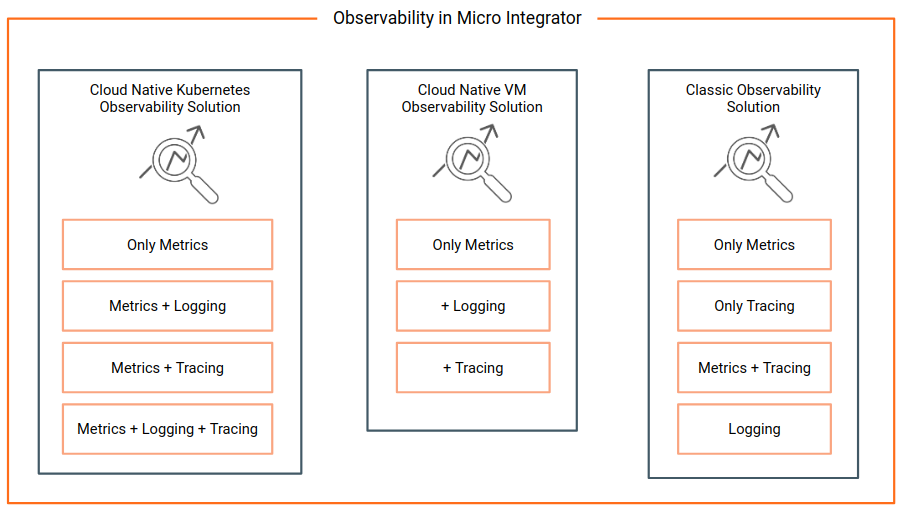
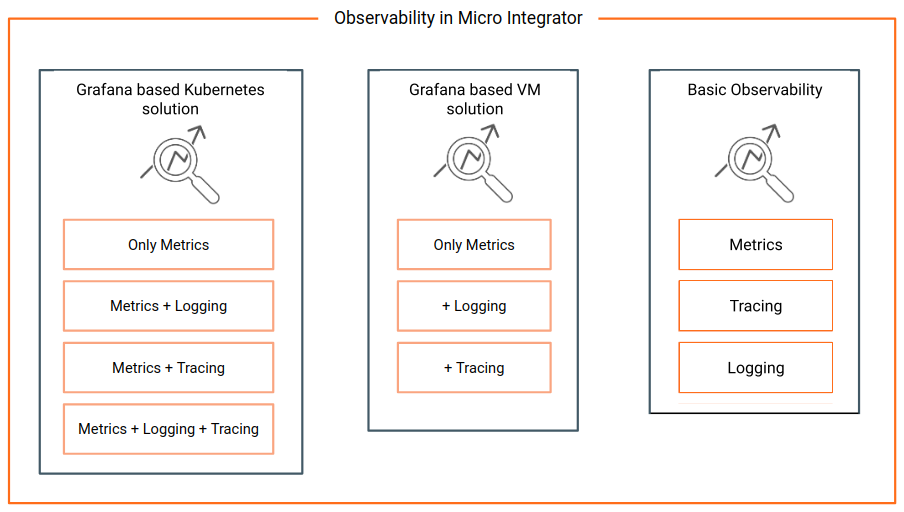
Restructure Observability docs

diff --git a/en/docs/observe-and-manage/cloud-native-observability-overview.md b/en/docs/observe-and-manage/cloud-native-observability-overview.md
@@ -1,16 +1,16 @@
 # Micro Integrator Observability Overview
 
-The following diagram depicts the complete **cloud native** observability solution for your Micro Integrator deployment, which includes **metrics monitoring**, **log monitoring**, and **message tracing** capabilities.
+The following diagram depicts the complete **Grafana** based observability solution for your Micro Integrator deployment, which includes **metrics monitoring**, **log monitoring**, and **message tracing** capabilities.
 
 [![Cloud Native Deployment Architecture]({{base_path}}/assets/img/integrate/monitoring-dashboard/cloud-native-deployment-architecture.png)]({{base_path}}/assets/img/integrate/monitoring-dashboard/cloud-native-deployment-architecture.png)
 
-## Minimum cloud native observability
+## Minimum Grafana based observability
 
 The basic deployment offers you metrics capabilities. You can set up the basic deployment with only Prometheus and Grafana to view and explore with the available Prometheus metrics.
 
-[![Cloud Native Deployment - Minimum]({{base_path}}/assets/img/integrate/monitoring-dashboard/cloud-native-observability-metrics.png)]({{base_path}}/assets/img/integrate/monitoring-dashboard/cloud-native-observability-metrics.png)
+[![Grafana based Deployment - Minimum]({{base_path}}/assets/img/integrate/monitoring-dashboard/cloud-native-observability-metrics.png)]({{base_path}}/assets/img/integrate/monitoring-dashboard/cloud-native-observability-metrics.png)
 
-## Cloud native observability add ons
+## Grafana based observability add ons
 
 You can also set up different flavors of the observability solution depending on your requirement.
 
@@ -18,17 +18,17 @@ You can also set up different flavors of the observability solution depending on
  
 Once you set up the basic deployment, you can integrate log-processing capabilities. To use this, you need to install **Fluent-Bit** as the logging agent and **Grafana Loki** as the log aggregator.
 
-[![Cloud Native Deployment with Logs]({{base_path}}/assets/img/integrate/monitoring-dashboard/cloud-native-observability-logs.png)]({{base_path}}/assets/img/integrate/monitoring-dashboard/cloud-native-observability-logs.png)
+[![Grafana based Deployment with Logs]({{base_path}}/assets/img/integrate/monitoring-dashboard/cloud-native-observability-logs.png)]({{base_path}}/assets/img/integrate/monitoring-dashboard/cloud-native-observability-logs.png)
 
 ### Message tracing add on
 
 Once you set up the basic deployment, you can integrate message tracing capabilities. To use this you need to install **Jaeger**.  
 
-[![Cloud Native Deployment with Tracing]({{base_path}}/assets/img/integrate/monitoring-dashboard/cloud-native-observability-tracing.png)]({{base_path}}/assets/img/integrate/monitoring-dashboard/cloud-native-observability-tracing.png)
+[![Grafana based Deployment with Tracing]({{base_path}}/assets/img/integrate/monitoring-dashboard/cloud-native-observability-tracing.png)]({{base_path}}/assets/img/integrate/monitoring-dashboard/cloud-native-observability-tracing.png)
 
 ## Observability solutions
 
-There are two cloud native observability solutions for the Micro Integrator; The Kubernetes based deployment and the VM based deployment.
+There are two Grafana based observability solutions for the Micro Integrator; The Kubernetes based deployment and the VM based deployment.
 
 <a href="{{base_path}}/assets/img/integrate/observability/observability-mi.png"><img src="{{base_path}}/assets/img/integrate/observability/observability-mi.png" title="Observability Solution" width="50%" alt="Observability Solution"/></a>
 
@@ -41,7 +41,7 @@ These solutions are suitable for the following combination of operations.
         <th><b>Description</b></th>
     </tr>
     <tr>
-        <td>Kubernetes cloud native solution</td>
+        <td>Grafana based Kubernetes solution</td>
         <td>
             <ul>
                 <li>Metrics only</li>
@@ -52,12 +52,12 @@ These solutions are suitable for the following combination of operations.
         </td>
         <td>
         <ul>
-        <li>The default Kubernetes cloud native solution comes with metrics enabled.</li>
+        <li>The default Grafana based Kubernetes solution comes with metrics enabled.</li>
         <li> You can also configure logging and tracing in combination with this. 
         </li>
             <li>This solution is ideal in the following situations.
             <ul>
-                <li>If you want a complete cloud native solution for observability.</li>
+                <li>If you want a complete Grafana based solution for observability.</li>
                 <li>If you already have Prometheus, Grafana, and Jaeger as your in-house monitoring and observability tools.</li>
             </ul>
         </li>
@@ -68,7 +68,7 @@ These solutions are suitable for the following combination of operations.
         </td>
     </tr>
     <tr>
-        <td>VM cloud native deployment</td>
+        <td>Grafana based VM deployment</td>
         <td>
             <ul>
                 <li>Metrics only</li>
@@ -79,11 +79,11 @@ These solutions are suitable for the following combination of operations.
         <td>
         <ul>
             <li>
-            The default VM cloud native solution comes with metrics enabled. </li>
+            The default Grafana based VM solution comes with metrics enabled. </li>
             <li>You can additionally set up logging or tracing separately as part of this solution later. 
             </li>
             <li>
-            This solution is ideal if you want a complete cloud native solution for observability, but you need to set this up on a VM. Ideally, you would already have Prometheus, Grafana, and Jaeger as your in-house monitoring and observability tools.
+            This solution is ideal if you want a complete Grafana based solution for observability, but you need to set this up on a VM. Ideally, you would already have Prometheus, Grafana, and Jaeger as your in-house monitoring and observability tools.
             </li>
             <li>
             For more information, see the <a href="{{base_path}}/observe-and-manage/setting-up-cloud-native-observability-on-a-vm">VM Deployment Getting Started Guide</a>.
@@ -95,7 +95,7 @@ These solutions are suitable for the following combination of operations.
 
 ## Technologies
 
-The cloud native observability solution is based on proven projects from the **Cloud Native Computing Foundation**, which makes the solution cloud native and future proof. Following are the technologies used in the current solution:
+The Grafana based observability solution is based on proven projects from the **Cloud Native Computing Foundation**, which makes the solution cloud native and future proof. Following are the technologies used in the current solution:
 
 | **Feature**   | **Technology**              |
 |---------------|-----------------------------|
@@ -106,5 +106,5 @@ The cloud native observability solution is based on proven projects from the **C
 
 ## What's Next?
 
--	Set up <a href="{{base_path}}/observe-and-manage/setting-up-cloud-native-observability-on-a-vm">cloud-native observability on a VM</a>.
--	Set up <a href="{{base_path}}/observe-and-manage/setting-up-cloud-native-observability-in-kubernetes/">cloud-native observability on Kubernetes</a>.
+-	Set up <a href="{{base_path}}/observe-and-manage/setting-up-cloud-native-observability-on-a-vm">Grafana based observability on a VM</a>.
+-	Set up <a href="{{base_path}}/observe-and-manage/setting-up-cloud-native-observability-in-kubernetes/">Grafana based observability on Kubernetes</a>.

diff --git a/en/docs/observe-and-manage/observe-overview.md b/en/docs/observe-and-manage/observe-overview.md
@@ -12,11 +12,11 @@ find the root causes of a system failure.
 
 ### Observability solutions
 
-WSO2 Micro Integrator offers two observability solutions referred to as the cloud-native observability deployment and classic observability deployment.
+WSO2 Micro Integrator offers an observability solution based on Prometheus, Loki, Jaeger and Grafana. You can also monitor basic observability data sources such as metrics, logs, and traces.
 
 [![Observability Solution]({{base_path}}/assets/img/observe/observability.png)]({{base_path}}/assets/img/observe/observability.png)
 
-The cloud-native and classic observability solution are suitable for the following combination of operations.
+The Grafana based observability solution and basic observability solution are suitable for the following combination of operations.
 
 <table>
     <tr>
@@ -25,7 +25,7 @@ The cloud-native and classic observability solution are suitable for the followi
         <th>Description</th>
     </tr>
     <tr>
-        <td>Kubernetes cloud-native solution</td>
+        <td>Grafana based Kubernetes solution</td>
         <td>
             <ul>
                 <li>Metrics only</li>
@@ -34,10 +34,10 @@ The cloud-native and classic observability solution are suitable for the followi
                 <li>Metrics + Logging + Tracing</li>
             </ul>
         </td>
-        <td>The default Kubernetes cloud-native solution comes with metrics enabled. You can also configure logging and tracing in combination with this. This solution is ideal if you want a complete cloud-native solution to observability and you already have Prometheus, Grafana, and Jaeger as your in-house monitoring and observability tools.</td>
+        <td>The default Grafana based Kubernetes solution comes with metrics enabled. You can also configure logging and tracing in combination with this. This solution is ideal if you want a complete solution to observability and you already have Prometheus, Grafana, and Jaeger as your in-house monitoring and observability tools.</td>
     </tr>
     <tr>
-        <td>VM cloud-native deployment</td>
+        <td>Grafana based VM deployment</td>
         <td>
             <ul>
                 <li>Metrics only</li>
@@ -45,10 +45,10 @@ The cloud-native and classic observability solution are suitable for the followi
                 <li>Tracing (add-on)</li>
             </ul>
         </td>
-        <td>The default VM cloud-native solution comes with metrics enabled. You can additionally set up logging or tracing separatly as part of this solution later. This solution is ideal if you want a complete cloud-native solution to observability, but you need to set this up on a VM. Ideally you would already have Prometheus, Grafana, and Jaeger as your in-house monitoring and observability tools.</td>
+        <td>The default Grafana based VM solution comes with metrics enabled. You can additionally set up logging or tracing separatly as part of this solution later. This solution is ideal if you want a complete solution to observability, but you need to set this up on a VM. Ideally you would already have Prometheus, Grafana, and Jaeger as your in-house monitoring and observability tools.</td>
     </tr>
     <tr>
-        <td>Classic deployment</td>
+        <td>Basic Observability</td>
         <td>
             <ul>
                 <li>Metrics</li>
@@ -60,9 +60,11 @@ The cloud-native and classic observability solution are suitable for the followi
     </tr>
 </table>
 
-* For instructions to set up the above observability solutions, see [Setting up Cloud Native Observability on a VM](setting-up-cloud-native-observability-on-a-vm.md) or [Setting up Cloud Native Observability on Kubernetes](setting-up-cloud-native-observability-in-kubernetes.md)
+* For instructions to set up the above observability solutions, see [Setting up Grafana based Observability on a VM](setting-up-cloud-native-observability-on-a-vm.md) or [Setting up Grafana based Observability on Kubernetes](setting-up-cloud-native-observability-in-kubernetes.md)
 
-* For more information on how to use the cloud-native solution, see [Viewing Cloud Native Observability Statistics](viewing-cloud-native-observability-statistics.md).
+* For more information on how to use the Grafana based solution, see [Viewing Grafana Dashboard](viewing-cloud-native-observability-statistics.md).
+
+* For more information on monitoring basic observability data sources, see [Monitoring Metrics](classic-observability-metrics/jmx-monitoring.md), [Monitoring Logs](classic-observability-logs/monitoring-logs.md), and [Monitoring Traces](classic-observability-traces/monitoring-with-opentelemetry-mi.md).
 
 ## Management
 

diff --git a/en/docs/observe-and-manage/setting-up-cloud-native-observability-in-kubernetes.md b/en/docs/observe-and-manage/setting-up-cloud-native-observability-in-kubernetes.md
@@ -1,8 +1,8 @@
-# Setting up Cloud Native Observability on Kubernetes
+# Setting up Grafana based Observability on Kubernetes
 
-Follow the instructions given below to set up a cloud native observability solution in a Kubernetes environment. 
+Follow the instructions given below to set up a Grafana based observability solution in a Kubernetes environment.
 
-To streamline the deployment of the cloud native observability solution in Kubernetes, the Micro Integrator provides a Helm chart via which you can deploy the solution to your Kubernetes cluster. The deployment installs the relevant products and adds the required configurations. After the installation, you can directly use the observability solution with a few additional configurations. 
+To streamline the deployment of the Grafana based observability solution in Kubernetes, the Micro Integrator provides a Helm chart via which you can deploy the solution to your Kubernetes cluster. The deployment installs the relevant products and adds the required configurations. After the installation, you can directly use the observability solution with a few additional configurations.
 
 ## Prerequisites
 
@@ -86,7 +86,7 @@ This deployment installs Jaeger-Operator. To install the Jaeger deployment, foll
 
 ##### Configuring Grafana to visualize tracing information
 
-The Helm chart configures the Jaeger data source automatically. Therefore, unlike in Setting up [Cloud Native Observability in a Virtual Machine]({{base_path}}/observe-and-manage/setting-up-cloud-native-observability-on-a-vm), it is not required to add it manually. However, to configure the links into Jaeger UI from the service-level dashboards, you need to perform the following steps:
+The Helm chart configures the Jaeger data source automatically. Therefore, unlike in Setting up [Grafana based Observability in a Virtual Machine]({{base_path}}/observe-and-manage/setting-up-cloud-native-observability-on-a-vm), it is not required to add it manually. However, to configure the links into Jaeger UI from the service-level dashboards, you need to perform the following steps:
 
 1. Access Grafana via `localhost:3000` and sign in.
 2. Navigate to the settings section of the service level dashboard by clicking the cog wheel icon in the top right corner.
@@ -109,7 +109,7 @@ Once Grafana is successfully configured to visualize statistics, you should be c
 
 ### Option 4 - Metrics + Logs + Message Tracing
 
-To install the cloud native observability solution with logging and tracing capabilities in your Kubernetes cluster, follow the steps below:
+To install the Grafana based observability solution with logging and tracing capabilities in your Kubernetes cluster, follow the steps below:
 
 1. Clone the [Helm repository](https://github.com/wso2/observability-ei).
 
@@ -209,4 +209,4 @@ For more information about the Micro Integrator Kubernetes development flow, see
 
 ## What's Next?
 
-If you have successfully set up your analytics deployment, see the instructions on [viewing cloud native observability statistics]({{base_path}}/observe-and-manage/viewing-cloud-native-observability-statistics/).
+If you have successfully set up your Grafana based observability deployment, see the instructions on [Viewing Grafana Dashboard]({{base_path}}/observe-and-manage/viewing-cloud-native-observability-statistics/).

diff --git a/en/docs/observe-and-manage/viewing-cloud-native-observability-statistics.md b/en/docs/observe-and-manage/viewing-cloud-native-observability-statistics.md
@@ -1,18 +1,18 @@
-# Viewing Cloud Native Observability Statistics
+# Viewing Grafana based Observability Statistics
 
-Let's use the **dashboards** from the cloud-native observability deployment to monitor **statistics** from your integration artifacts.
+Let's use the **dashboards** from the Grafana based observability deployment to monitor **statistics** from your integration artifacts.
 
 ## Before you begin
 
-Set up the suitable cloud-native observability deployment. The dashboards described in this section apply to all the cloud-native deployment strategies.
+Set up the suitable Grafana based observability deployment. The dashboards described in this section apply to all the Grafana based deployment strategies.
 
 See the following topics for information and instructions:
 
 !!! Tip
-    If you do not know which dashboard to download when setting up cloud-native observability, check the "Downloading the dashboard" section in the respective sub-sections below for details on the dashboard.
+    If you do not know which dashboard to download when setting up Grafana based observability, check the "Downloading the dashboard" section in the respective sub-sections below for details on the dashboard.
 
--	Setting up [cloud-native observability for a VM environment]({{base_path}}/observe-and-manage/setting-up-cloud-native-observability-on-a-vm).
--	Setting up [cloud-native observability for a Kubernetes environment]({{base_path}}/observe-and-manage/setting-up-cloud-native-observability-in-kubernetes).
+-	Setting up [Grafana based observability for a VM environment]({{base_path}}/observe-and-manage/setting-up-cloud-native-observability-on-a-vm).
+-	Setting up [Grafana based observability for a Kubernetes environment]({{base_path}}/observe-and-manage/setting-up-cloud-native-observability-in-kubernetes).
 
 ## Cluster dashboard
 

diff --git a/en/docs/observe-and-manage/setting-up-cloud-native-observability-on-a-vm.md b/en/docs/observe-and-manage/setting-up-cloud-native-observability-on-a-vm.md
@@ -1,12 +1,12 @@
-# Setting up Cloud Native Observability on a VM
+# Setting up Grafana based Observability on a VM
 
-Follow the instructions given below to set up a cloud native observability solution for your Micro Integrator (MI) deployment in a VM environment. 
+Follow the instructions given below to set up a Grafana based observability solution for your Micro Integrator (MI) deployment in a VM environment.
 
 You need to start with the [minimum deployment](#step-1-set-up-the-minimum-deployment), which enables metric monitoring. Once you have set up the minimum deployment, you can add [log processing](#step-2-optionally-integrate-the-log-processing-add-on) and [message tracing](#step-3-optionally-integrate-the-message-tracing-add-on) capabilities to your solution.
 
 ## Step 1 - Set up the minimum deployment
 
-The minimum cloud native observability deployment requires <b>Prometheus</b> and <b>Grafana</b>. The Micro Integrator uses Prometheus to expose its statistics to Grafana. Grafana is used to visualize the statistics.
+The minimum Grafana based observability deployment requires <b>Prometheus</b> and <b>Grafana</b>. The Micro Integrator uses Prometheus to expose its statistics to Grafana. Grafana is used to visualize the statistics.
 
 ### Step 1.1 - Set up Prometheus
 
@@ -414,4 +414,4 @@ Once Grafana is successfully configured to visualize statistics, you should be c
 
 ## What's Next?
 
-If you have successfully set up your analytics deployment, see the instructions on [viewing cloud native observability statistics]({{base_path}}/observe-and-manage/viewing-cloud-native-observability-statistics/).
+If you have successfully set up your Grafana based observability deployment, see the instructions on [Viewing Grafana Dashboard]({{base_path}}/observe-and-manage/viewing-cloud-native-observability-statistics/).
